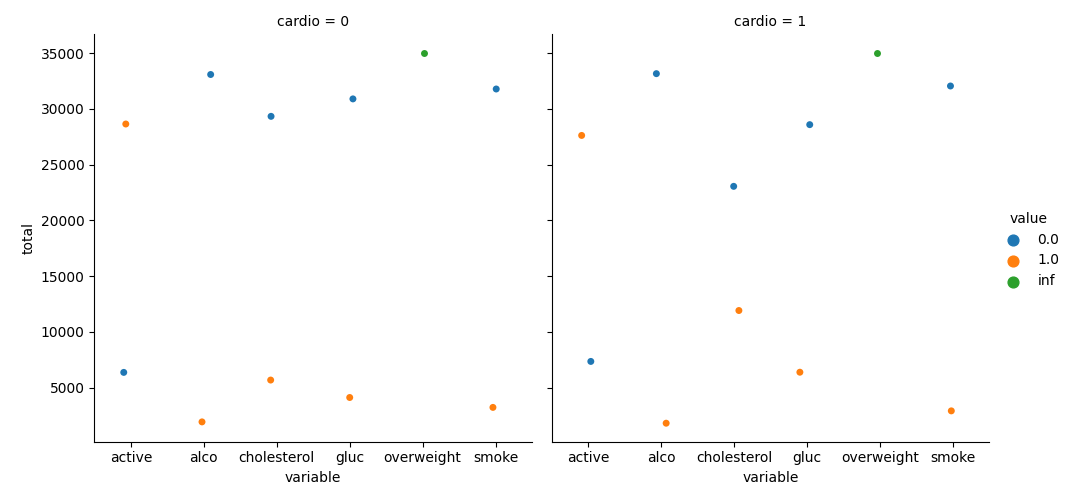
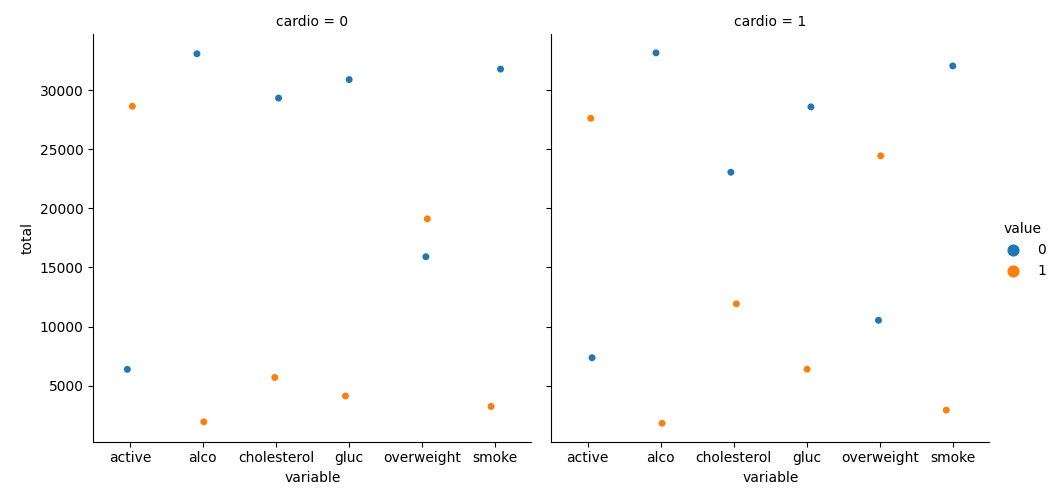
second commit

diff --git a/medical_data_visualizer.py b/medical_data_visualizer.py
@@ -7,8 +7,9 @@ import numpy as np
 df = pd.read_csv('medical_examination.csv')
 
 # Add 'overweight' column
-df['overweight'] = df["weight"] / ((df["height"] / 100) ** 2).apply(lambda x: 1 if x > 25 else 0)
-
+# df['overweight'] = df["weight"] / ((df["height"] / 100) ** 2).apply(lambda x: 1 if x > 25 else 0)
+df["overweight"] = (df["weight"] / (df["height"] / 100)**2).apply(lambda v:0 if v<25
+else 1)
 # Normalize data by making 0 always good and 1 always bad. If the value of 'cholesterol' or 'gluc' is 1, make the value 0. If the value is more than 1, make the value 1.
 df['cholesterol'] = df['cholesterol'].apply(lambda x: 0 if x == 1 else 1)
 df['gluc'] = df['gluc'].apply(lambda x: 0 if x == 1 else 1)
@@ -40,8 +41,8 @@ def draw_heat_map():
     df_heat = df [
     (df['ap_lo'] <= df['ap_hi']) &
     (df['height'] >= df ['height'].quantile(0.025)) &
-    (df['height'] >= df ['height'].quantile(0.975)) &
-    (df['weight'] <= df ['weight'].quantile(0.025)) &
+    (df['height'] <= df ['height'].quantile(0.975)) &
+    (df['weight'] >= df ['weight'].quantile(0.025)) &
     (df['weight'] <= df ['weight'].quantile(0.975))]
 
     # Calculate the correlation matrix
@@ -56,7 +57,7 @@ def draw_heat_map():
     fig, ax = plt.subplots(figsize=(12, 12))
 
     # Draw the heatmap with 'sns.heatmap()'
-    sns.heatmap(corr, linewidths=1, annot = True, square = True, mask=mask, fmt=".1f", center=0.08, cbar_kws={"shrink": 0.5})
+    sns.heatmap(corr, linewidths=1, vmax=1, annot = True, square = True, mask=mask, fmt=".1f", center=0.08, cbar_kws={"shrink": 0.5})
 
 
     # Do not modify the next two lines

diff --git a/test_module.py b/test_module.py
@@ -8,6 +8,7 @@ class CatPlotTestCase(unittest.TestCase):
     def setUp(self):
         self.fig = medical_data_visualizer.draw_cat_plot()
         self.ax = self.fig.axes[0]
+        self.maxDiff = None
     
     def test_line_plot_labels(self):
         actual = self.ax.get_xlabel()
@@ -24,7 +25,7 @@ class CatPlotTestCase(unittest.TestCase):
 
     def test_bar_plot_number_of_bars(self):
         actual = len([rect for rect in self.ax.get_children() if isinstance(rect, mpl.patches.Rectangle)])
-        expected = 13
+        expected = 1
         self.assertEqual(actual, expected, "Expected a different number of bars chart.")
 
 
